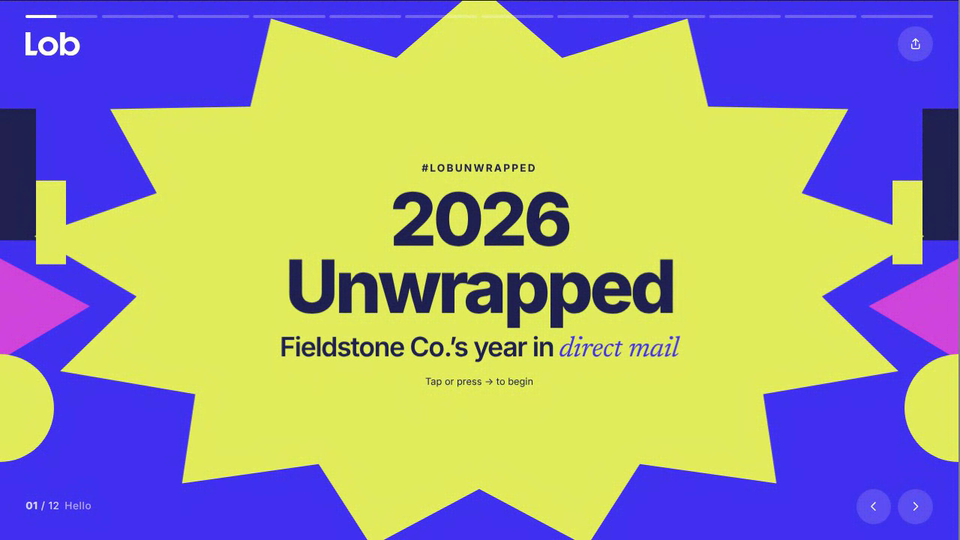
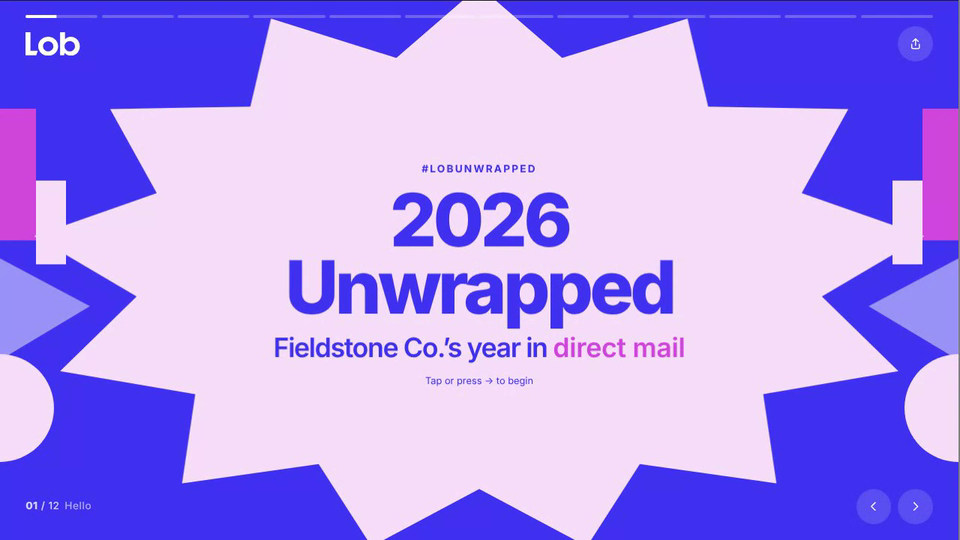
Lob Unwrapped: indigo, magenta, pink and white palette only, sans serif only
Claude-Session: https://claude.ai/code/session_01AHeBdx8DNoKfudp6tSCb8e

diff --git a/lob-unwrapped/index.html b/lob-unwrapped/index.html
@@ -10,12 +10,12 @@
 <meta property="og:image" content="https://kristynagottvald.github.io/sandbox/lob-unwrapped/thumb.png">
 <meta name="twitter:card" content="summary_large_image">
 <link rel="preconnect" href="https://fonts.googleapis.com">
-<link href="https://fonts.googleapis.com/css2?family=Inter:wght@400;500;600;700;800&family=Newsreader:ital,wght@1,400&display=swap" rel="stylesheet">
+<link href="https://fonts.googleapis.com/css2?family=Inter:wght@400;500;600;700;800&display=swap" rel="stylesheet">
 <style>
-:root{--blue:#4131f1;--ink:#1f2250;--lime:#e4ee5c;--mag:#d045dc;--lav:#e7e5fb;--pink:#f4cff5;--sans:"Inter","Helvetica Neue",Helvetica,Arial,sans-serif;--serif:"Newsreader",Georgia,"Times New Roman",serif}
+:root{--blue:#4131f1;--ink:#4131f1;--lime:#f7dffa;--mag:#d045dc;--lav:#f5f5fe;--pink:#f7dffa;--peri:#9b93f8;--sans:"Inter","Helvetica Neue",Helvetica,Arial,sans-serif}
 *{box-sizing:border-box;margin:0}
-html{background:#0b0c22}
-body{min-height:100dvh;display:flex;flex-direction:column;color:#fff;font:400 16px/1.4 var(--sans);-webkit-font-smoothing:antialiased;overflow:hidden;background:#0b0c22}
+html{background:#000}
+body{min-height:100dvh;display:flex;flex-direction:column;color:#fff;font:400 16px/1.4 var(--sans);-webkit-font-smoothing:antialiased;overflow:hidden;background:#000}
 button{font:inherit;color:inherit;cursor:pointer}
 /* ---------- back nav (shared across sandbox projects) ---------- */
 nav.back{flex:none;display:flex;align-items:center;gap:8px;height:49px;padding:0 20px;background:#000;border-bottom:1px solid #1c1c1c;font:400 13px/1.35 var(--sans);white-space:nowrap;overflow:hidden;position:relative;z-index:5}
@@ -60,12 +60,11 @@ nav.back span{color:#6e6e6e}nav.back b{font-weight:500;color:#fff;overflow:hidde
 .slide{--bg:#4131f1;--fg:#fff;--ac:var(--lime);position:absolute;inset:0;z-index:1;background:var(--bg);color:var(--fg);opacity:0;visibility:hidden;transition:opacity .45s,visibility 0s .45s;overflow:hidden;pointer-events:none}
 .slide.on{opacity:1;visibility:visible;transition:opacity .45s;z-index:2}
 .slide a,.slide button{pointer-events:auto}
-.t-blue{--bg:#4131f1;--fg:#fff;--ac:#e4ee5c}
-.t-ink{--bg:#1f2250;--fg:#fff;--ac:#e4ee5c}
-.t-lime{--bg:#e4ee5c;--fg:#1f2250;--ac:#4131f1}
-.t-mag{--bg:#d045dc;--fg:#1f2250;--ac:#e4ee5c}
-.t-lav{--bg:#e7e5fb;--fg:#1f2250;--ac:#4131f1}
-.t-white{--bg:#fff;--fg:#1f2250;--ac:#4131f1}
+.t-blue{--bg:#4131f1;--fg:#fff;--ac:#f7dffa}
+.t-pink{--bg:#f7dffa;--fg:#4131f1;--ac:#d045dc}
+.t-mag{--bg:#d045dc;--fg:#fff;--ac:#f7dffa}
+.t-lav{--bg:#f5f5fe;--fg:#4131f1;--ac:#d045dc}
+.t-white{--bg:#fff;--fg:#4131f1;--ac:#d045dc}
 .bg{position:absolute;inset:0;width:100%;height:100%;display:block}
 .burstsvg{position:absolute;z-index:1;left:50%;top:50%;width:96%;height:104%;transform:translate(-50%,-50%);display:block}
 .in{position:relative;z-index:2;width:100%;height:100%;display:grid;grid-template-columns:minmax(0,1fr) minmax(0,1fr);align-items:center;column-gap:calc(var(--u)*8);padding:calc(var(--u)*20) calc(var(--u)*36) calc(var(--u)*17)}
@@ -96,7 +95,7 @@ nav.back span{color:#6e6e6e}nav.back b{font-weight:500;color:#fff;overflow:hidde
 .h{font:800 calc(var(--u)*13)/1 var(--sans);letter-spacing:-.045em}
 .h.sm{font-size:calc(var(--u)*10.4)}
 .hero{font:800 calc(var(--u)*23)/.92 var(--sans);letter-spacing:-.05em}
-.h i,.lead i,.big i,.hero i{font:italic 400 1.06em var(--serif);letter-spacing:-.01em;color:var(--ac)}
+.h i,.lead i,.big i,.hero i{font-style:normal;letter-spacing:-.01em;color:var(--ac)}
 .lead{font:600 calc(var(--u)*8.4)/1.1 var(--sans);letter-spacing:-.04em}
 .big{font:800 calc(var(--u)*26)/.92 var(--sans);letter-spacing:-.06em;font-variant-numeric:tabular-nums;white-space:nowrap}
 .big.md{font-size:calc(var(--u)*30)}.big.lg{font-size:calc(var(--u)*40)}
@@ -138,7 +137,7 @@ nav.back span{color:#6e6e6e}nav.back b{font-weight:500;color:#fff;overflow:hidde
 .qrwrap{position:relative;width:calc(var(--u)*72)}
 .qrbox{position:relative;width:100%;aspect-ratio:1;background:#fff;border-radius:calc(var(--u)*5);padding:calc(var(--u)*5.5);color:var(--ink);box-shadow:0 calc(var(--u)*2) calc(var(--u)*5) rgba(31,34,80,.25)}
 .qrbox svg{width:100%;height:100%;display:block;fill:currentColor}
-.qrbox::after{content:"";position:absolute;left:calc(var(--u)*3);right:calc(var(--u)*3);height:calc(var(--u)*1.4);border-radius:9px;background:var(--lime);box-shadow:0 0 calc(var(--u)*5) var(--lime);top:8%;opacity:0}
+.qrbox::after{content:"";position:absolute;left:calc(var(--u)*3);right:calc(var(--u)*3);height:calc(var(--u)*1.4);border-radius:9px;background:var(--mag);box-shadow:0 0 calc(var(--u)*5) var(--mag);top:8%;opacity:0}
 .on .qrbox::after{animation:scan 2.2s ease-in-out .7s infinite}
 @keyframes scan{0%{top:6%;opacity:0}12%{opacity:1}88%{opacity:1}100%{top:92%;opacity:0}}
 .phone{position:absolute;right:calc(var(--u)*-18);bottom:calc(var(--u)*-8);width:calc(var(--u)*30);height:auto;filter:drop-shadow(0 calc(var(--u)*1.6) calc(var(--u)*2.4) rgba(31,34,80,.3))}
@@ -157,7 +156,7 @@ nav.back span{color:#6e6e6e}nav.back b{font-weight:500;color:#fff;overflow:hidde
 @keyframes blink{50%{opacity:0}}
 .browser .pg{padding:calc(var(--u)*6) calc(var(--u)*5.4) calc(var(--u)*6.6);display:grid;gap:calc(var(--u)*3)}
 .browser .pg b{font:800 calc(var(--u)*8.4)/1.02 var(--sans);letter-spacing:-.045em}
-.browser .pg b i{font:italic 400 1.06em var(--serif);color:var(--blue)}
+.browser .pg b i{font-style:normal;color:var(--mag)}
 .browser .pg span{font:400 calc(var(--u)*4)/1.4 var(--sans);opacity:.7}
 .browser .cta{position:relative;justify-self:start;padding:calc(var(--u)*2.8) calc(var(--u)*5.4);border-radius:99px;background:var(--blue);color:#fff;font:700 calc(var(--u)*3.8)/1 var(--sans)}
 .browser .cta svg{position:absolute;right:-12%;bottom:-70%;width:calc(var(--u)*8)}
@@ -167,10 +166,10 @@ nav.back span{color:#6e6e6e}nav.back b{font-weight:500;color:#fff;overflow:hidde
 .fun .row div{font:700 calc(var(--u)*6)/1.15 var(--sans);letter-spacing:-.03em}
 .fun .row small{display:block;font:400 calc(var(--u)*3.6)/1.3 var(--sans);opacity:.7;letter-spacing:0;margin-top:3px}
 .tags{display:flex;flex-wrap:wrap;gap:calc(var(--u)*2.2);justify-content:center}
-.tags span{font:700 calc(var(--u)*3.6)/1 var(--sans);padding:calc(var(--u)*2.6) calc(var(--u)*4.4);border-radius:99px;background:var(--fg);color:var(--lav)}
-.tags span:nth-child(2n){background:var(--ac);color:var(--ink)}
+.tags span{font:700 calc(var(--u)*3.6)/1 var(--sans);padding:calc(var(--u)*2.6) calc(var(--u)*4.4);border-radius:99px;background:#4131f1;color:#fff}
+.tags span:nth-child(2n){background:#f7dffa;color:#4131f1}
 .persona{font:800 calc(var(--u)*11.5)/.95 var(--sans);letter-spacing:-.055em}
-.persona i{font:italic 400 1.04em var(--serif);letter-spacing:-.02em;color:var(--blue)}
+.persona i{font-style:normal;letter-spacing:-.02em;color:var(--mag)}
 .pcirc{display:flex;flex-direction:column;align-items:center;gap:calc(var(--u)*3);text-align:center;color:var(--ink);max-width:calc(var(--u)*74)}
 .pcirc .lead{font-size:calc(var(--u)*5.2);font-weight:500;letter-spacing:-.02em;line-height:1.2}
 .pcirc .k{opacity:.8}
@@ -181,7 +180,7 @@ nav.back span{color:#6e6e6e}nav.back b{font-weight:500;color:#fff;overflow:hidde
 .card .top [data-logo]{width:calc(var(--u)*15)}
 .card .top span:last-child{font:700 calc(var(--u)*3)/1 var(--sans);letter-spacing:.14em;text-transform:uppercase;color:var(--lime)}
 .card .nm{font:800 calc(var(--u)*8.4)/1 var(--sans);letter-spacing:-.05em}
-.card .nm i{font:italic 400 1.05em var(--serif);color:var(--lime);letter-spacing:-.01em}
+.card .nm i{font-style:normal;color:var(--lime);letter-spacing:-.01em}
 .card .g{display:grid;grid-template-columns:repeat(3,1fr);gap:calc(var(--u)*4.4) calc(var(--u)*3)}
 .card .g b{display:block;font:800 calc(var(--u)*8.2)/1 var(--sans);letter-spacing:-.05em;font-variant-numeric:tabular-nums}
 .card .g span{display:block;margin-top:calc(var(--u)*1.2);font:400 calc(var(--u)*3)/1.2 var(--sans);opacity:.8}
@@ -189,11 +188,11 @@ nav.back span{color:#6e6e6e}nav.back b{font-weight:500;color:#fff;overflow:hidde
 .btn{display:inline-flex;align-items:center;justify-content:center;gap:calc(var(--u)*2.2);height:calc(var(--u)*13);padding:0 calc(var(--u)*5);border-radius:99px;border:0;background:var(--ink);color:#fff;font:700 calc(var(--u)*3.8)/1 var(--sans);text-decoration:none;white-space:nowrap;cursor:pointer}
 .btn svg{width:calc(var(--u)*4.6);height:calc(var(--u)*4.6);fill:none;stroke:currentColor;stroke-width:2;stroke-linecap:round;stroke-linejoin:round}
 .btn:hover{filter:brightness(1.18)}.btn:focus-visible{outline:2px solid var(--ink);outline-offset:3px}
-.ctr .facts.three .fact{background:#1f2250;color:#e4ee5c}
-.btn.main{background:var(--blue);grid-column:1/-1}
-.btn.talk{background:var(--mag);color:var(--ink);align-self:flex-start;margin-top:calc(var(--u)*2)}
+.ctr .facts.three .fact{background:#4131f1;color:#f7dffa}
+.btn.main{background:var(--mag);grid-column:1/-1}
+.btn.talk{background:#fff;color:var(--ink);align-self:flex-start;margin-top:calc(var(--u)*2)}
 .btn.talk:hover{filter:brightness(1.05)}
-@container (max-aspect-ratio:1/1){.hero{font-size:calc(var(--u)*17)}.persona{font-size:calc(var(--u)*8.4)}.pcirc{max-width:56cqw}.pcirc .lead{font-size:calc(var(--u)*4.4)}.btn{height:calc(var(--u)*11)}.cswrap{margin-bottom:calc(var(--u)*11)}}
+@container (max-aspect-ratio:1/1){.hero{font-size:calc(var(--u)*17)}.persona{font-size:calc(var(--u)*8.4)}.pcirc{max-width:46cqw;gap:calc(var(--u)*2)}.pcirc .k{font-size:calc(var(--u)*2.8);letter-spacing:.1em}.pcirc .lead{font-size:calc(var(--u)*3.9)}.persona{font-size:calc(var(--u)*7.6)}.btn{height:calc(var(--u)*11)}.cswrap{margin-bottom:calc(var(--u)*11)}}
 </style>
 </head>
 <body>
@@ -245,8 +244,8 @@ function C(v,fmt){return '<span data-count="'+v+'" data-fmt="'+fmt+'">'+F[fmt](v
 
 /* ---------- flat shape kit (SVG strings) ---------- */
 var UID=0;
-var B='#4131f1',INK='#1f2250',LI='#e4ee5c',MG='#d045dc',LAV='#e7e5fb',PK='#f4cff5',WH='#fff';
-var PAL={bl:[B,LI,MG,INK],li:[LI,B,INK,MG],mg:[MG,INK,LI,WH],ink:[INK,LI,MG,B],lav:[LAV,B,MG,LI],wh:[WH,B,LI,MG]};
+var B='#4131f1',MG='#d045dc',LAV='#f5f5fe',PK='#f7dffa',PW='#9b93f8',M3='#e28deb',M4='#edb8f3',M5='#f4d3f8',WH='#fff';
+var PAL={bl:[B,PK,MG,PW],pk:[PK,B,MG,PW],mg:[MG,B,PK,LAV],pw:[PW,B,LAV,MG],lav:[LAV,B,MG,PW],wh:[WH,B,MG,PK]};
 function f1(n){return Math.round(n*10)/10}
 function circ(x,y,r,f){return '<circle cx="'+f1(x)+'" cy="'+f1(y)+'" r="'+f1(r)+'" fill="'+f+'"/>'}
 function rect(x,y,w,h,f,rx){return '<rect x="'+f1(x)+'" y="'+f1(y)+'" width="'+f1(w)+'" height="'+f1(h)+'" fill="'+f+'"'+(rx?' rx="'+rx+'"':'')+'/>'}
@@ -278,7 +277,7 @@ function burst(f,n){return '<svg class="burstsvg" viewBox="0 0 160 90" preserveA
 /* ---------- slides ---------- */
 var IL={
  sky:'<svg class="il" viewBox="0 0 320 90"><g class="f" opacity=".28"><rect x="4" y="46" width="30" height="44"/><rect x="40" y="26" width="26" height="64"/><rect x="72" y="52" width="34" height="38"/><rect x="112" y="8" width="28" height="82"/><rect x="146" y="34" width="32" height="56"/><rect x="184" y="56" width="26" height="34"/><rect x="216" y="20" width="30" height="70"/><rect x="252" y="44" width="28" height="46"/><rect x="286" y="30" width="30" height="60"/></g><g class="a"><rect x="116" y="16" width="6" height="8"/><rect x="128" y="16" width="6" height="8"/><rect x="220" y="28" width="6" height="8"/><rect x="232" y="40" width="6" height="8"/><rect x="44" y="34" width="6" height="8"/><rect x="150" y="42" width="6" height="8"/></g></svg>',
- phone:'<svg class="phone" viewBox="0 0 80 150"><rect width="80" height="150" rx="14" fill="#1f2250"/><rect x="6" y="8" width="68" height="134" rx="9" fill="#fff"/><rect x="28" y="12" width="24" height="5" rx="2.5" fill="#1f2250"/><path d="M18 52v-10h10M52 42h10v10M62 98v10H52M28 108H18V98" fill="none" stroke="#4131f1" stroke-width="4" stroke-linecap="round" stroke-linejoin="round"/><rect x="18" y="72" width="44" height="4" rx="2" fill="#d045dc"/></svg>',
+ phone:'<svg class="phone" viewBox="0 0 80 150"><rect width="80" height="150" rx="14" fill="#4131f1"/><rect x="6" y="8" width="68" height="134" rx="9" fill="#fff"/><rect x="28" y="12" width="24" height="5" rx="2.5" fill="#4131f1"/><path d="M18 52v-10h10M52 42h10v10M62 98v10H52M28 108H18V98" fill="none" stroke="#4131f1" stroke-width="4" stroke-linecap="round" stroke-linejoin="round"/><rect x="18" y="72" width="44" height="4" rx="2" fill="#d045dc"/></svg>',
  truck:'<svg class="il" viewBox="0 0 260 120"><g class="f" opacity=".5"><rect x="4" y="34" width="36" height="5" rx="2.5"/><rect x="14" y="52" width="30" height="5" rx="2.5"/><rect x="2" y="70" width="38" height="5" rx="2.5"/></g><rect class="a" x="52" y="22" width="118" height="70" rx="8"/><path class="f" d="M176 44h36l26 26v22h-62z"/><path class="b" d="M188 52h20l14 16h-34z"/><circle class="f" cx="88" cy="96" r="15"/><circle class="b" cx="88" cy="96" r="6"/><circle class="f" cx="206" cy="96" r="15"/><circle class="b" cx="206" cy="96" r="6"/><rect class="b" x="72" y="38" width="42" height="28" rx="4"/></svg>'};
 function qrPath(seed){var s=seed,r=function(){s=(s*16807)%2147483647;return s/2147483647},p='',n=21,fin=function(x,y){p+='M'+x+' '+y+'h7v7h-7z M'+(x+1)+' '+(y+1)+'h5v5h-5z M'+(x+2)+' '+(y+2)+'h3v3h-3z '};
   fin(0,0);fin(14,0);fin(0,14);
@@ -289,61 +288,61 @@ function qrSvg(seed){return '<svg viewBox="0 0 21 21" shape-rendering="crispEdge
 var SL=[];
 function R(i,html,tag,cls){return '<'+(tag||'div')+' class="rise'+(cls?' '+cls:'')+'" style="--i:'+i+'">'+html+'</'+(tag||'div')+'>'}
 /* 0 hello: a lime burst on blue */
-SL.push({t:'blue',n:'Hello',d:6500,bg:edge([LI,INK,MG,LI]),pre:burst(LI),h:
-  '<div class="in ctr"><div class="tx" style="color:#1f2250">'+R(0,'#LobUnwrapped','div','k')+R(1,'2026<br>Unwrapped','h1','hero')+R(2,esc(D.brand)+'’s year in <i style="color:#4131f1">direct mail</i>','p','lead')+R(3,'Tap or press → to begin','p','fine')+'</div></div>'});
+SL.push({t:'blue',n:'Hello',d:6500,bg:edge([PK,MG,PW,PK]),pre:burst(PK),h:
+  '<div class="in ctr"><div class="tx" style="color:#4131f1">'+R(0,'#LobUnwrapped','div','k')+R(1,'2026<br>Unwrapped','h1','hero')+R(2,esc(D.brand)+'’s year in <i style="color:#d045dc">direct mail</i>','p','lead')+R(3,'Tap or press → to begin','p','fine')+'</div></div>'});
 /* 1 pieces sent: the Figma cascade */
-SL.push({t:'lime',n:'Pieces sent',d:6500,bg:edge([B,INK,MG,B]),h:
+SL.push({t:'pink',n:'Pieces sent',d:6500,bg:edge([B,MG,PW,B]),h:
   '<div class="in wide"><div class="tx">'+R(0,'You sent','div','k')+R(1,C(D.pieces,'int'),'div','big')+R(2,'pieces of <i>mail</i>','div','lead')+
   R(3,'That’s <b>'+int(D.perDay)+'</b> out the door every day, enough for about 1 in every <b>'+D.hh+'</b> US households.','p','sub')+'</div>'+
   '<div class="art">'+R(2,cascade('mandala','bl',false),'div','')+'</div></div>'});
 /* 2 mix: one abstract piece per format */
-SL.push({t:'ink',n:'Your mix',d:6500,bg:edge([LI,B,MG,LI]),h:
+SL.push({t:'blue',n:'Your mix',d:6500,bg:edge([MG,PK,PW,MG]),h:
   '<div class="in col">'+R(0,'Your mix','div','k')+R(1,'Postcards were your <i>main character</i>','h2','h sm')+
-  '<div class="mixrow">'+D.mix.map(function(m,i){return R(i+2,piece(m[2],['bl','mg','wh','lav'][i],i%2===1)+'<b>'+C(m[1],'pct')+'</b><span>'+m[0]+'</span><small>'+compact(D.pieces*m[1]/100)+' pieces</small>','div','mix')}).join('')+'</div></div>'});
+  '<div class="mixrow">'+D.mix.map(function(m,i){return R(i+2,piece(m[2],['pk','mg','wh','lav'][i],i%2===1)+'<b>'+C(m[1],'pct')+'</b><span>'+m[0]+'</span><small>'+compact(D.pieces*m[1]/100)+' pieces</small>','div','mix')}).join('')+'</div></div>'});
 /* 3 moon */
-SL.push({t:'ink',n:'To the moon',d:7500,moon:1,bg:edge([MG,B,LI,MG]),h:
+SL.push({t:'mag',n:'To the moon',d:7500,moon:1,bg:edge([B,PK,PW,B]),h:
   '<div class="in"><div class="tx">'+R(0,'Piece-miles','div','k')+R(1,'Your mail traveled <span style="color:var(--ac)">'+C(D.pieceMiles,'bil')+' billion</span> miles','h2','h sm')+
   R(2,'That’s <b>'+C(D.trips,'int')+'</b> trips to the <i>moon</i>.','p','lead')+R(3,'Piece-miles = pieces × average delivery distance ('+int(D.avgMi)+' mi). Moon: 238,855 mi one way.','p','fine')+'</div>'+
   '<div class="art">'+R(2,'<svg class="scene" viewBox="0 0 440 340">'+
     '<g fill="#fff" opacity=".55"><circle cx="30" cy="40" r="3"/><circle cx="160" cy="18" r="2.4"/><circle cx="280" cy="90" r="2.6"/><circle cx="400" cy="30" r="2.4"/><circle cx="420" cy="170" r="3"/><circle cx="140" cy="140" r="2.2"/><circle cx="330" cy="210" r="2"/></g>'+
-    circ(98,250,92,B)+'<path d="M26 232c28-24 56-28 80-12s52 8 68-12M14 276c36 12 68 4 92 22" fill="none" stroke="'+LI+'" stroke-width="12" stroke-linecap="round"/>'+
+    circ(98,250,92,B)+'<path d="M26 232c28-24 56-28 80-12s52 8 68-12M14 276c36 12 68 4 92 22" fill="none" stroke="'+PK+'" stroke-width="12" stroke-linecap="round"/>'+
     circ(362,86,56,LAV)+circ(344,70,12,PK)+circ(380,104,15,PK)+circ(364,58,6,PK)+circ(342,108,7,PK)+
     '<path id="mp" d="M168 196C230 70 320 34 328 62" fill="none" stroke="#fff" stroke-opacity=".55" stroke-width="3" stroke-dasharray="2 12" stroke-linecap="round"/>'+
-    '<g id="mc"><g transform="translate(-24 -15.4) scale(.16)">'+piece('burst','li',false).replace(/^<svg[^>]*>|<\/svg>$/g,'')+'</g></g></svg>','div','')+'</div></div>'});
+    '<g id="mc"><g transform="translate(-24 -15.4) scale(.16)">'+piece('burst','pk',false).replace(/^<svg[^>]*>|<\/svg>$/g,'')+'</g></g></svg>','div','')+'</div></div>'});
 /* 4 coverage */
-SL.push({t:'blue',n:'% of the US',d:7000,map:1,bg:edge([LI,INK,MG,MG]),h:
+SL.push({t:'blue',n:'% of the US',d:7000,map:1,bg:edge([PK,MG,PW,M3]),h:
   '<div class="in"><div class="tx">'+R(0,'You reached','div','k')+R(1,C(D.pct,'pct'),'div','big lg')+R(2,'of US <i>households</i>','div','lead')+R(3,'<span class="pill" style="background:var(--lime);color:var(--ink)">'+D.states+' states, one mailbox at a time</span>')+'</div>'+
   '<div class="art">'+R(1,'<div class="map"><canvas id="cv"></canvas></div>','div','')+'</div></div>'});
 /* 5 metros */
-SL.push({t:'lav',n:'Metros',d:6500,bg:edge([B,MG,INK,B]),h:
+SL.push({t:'lav',n:'Metros',d:6500,bg:edge([B,MG,PW,B]),h:
   '<div class="in"><div class="tx">'+R(0,'Metros delivered to','div','k')+R(1,C(D.metros,'int')+' <small>of 387</small>','div','big lg')+R(2,'Your top five <i>metros</i>','div','lead')+R(5,IL.sky,'div','')+'</div>'+
   '<div class="art"><div class="rank">'+D.metroTop.map(function(m,i){return R(i+2,'<div class="n">'+(i+1)+'</div><div><div class="nm">'+m[0]+'<span>'+C(m[1],'int')+'</span></div><div class="t"><i style="--w:'+(100-i*13)+'%;--i:'+i+'"></i></div></div>','div','row')}).join('')+'</div></div></div>'});
 /* 6 QR */
-SL.push({t:'mag',n:'QR scans',d:6500,bg:edge([LI,INK,B,LI]),h:
+SL.push({t:'pink',n:'QR scans',d:6500,bg:edge([MG,B,PW,MG]),h:
   '<div class="in"><div class="tx">'+R(0,'QR codes scanned','div','k')+R(1,C(D.scans,'int'),'div','big md')+R(2,'<i>scans</i>, one tap at a time','div','lead')+
   R(3,'<div class="facts"><div class="fact"><b>'+C(D.qrRate,'p1')+'</b><span>of your pieces got scanned</span></div><div class="fact"><b>Tue 7 PM</b><span>when your audience scans most</span></div></div>','div')+'</div>'+
   '<div class="art">'+R(2,'<div class="qrwrap"><div class="qrbox">'+qrSvg(11)+'</div>'+IL.phone+'</div>','div','')+'</div></div>'});
 /* 7 PURL */
-SL.push({t:'white',n:'PURL clicks',d:7000,purl:1,bg:edge([B,MG,LI,INK]),h:
+SL.push({t:'white',n:'PURL clicks',d:7000,purl:1,bg:edge([B,MG,PK,PW]),h:
   '<div class="in"><div class="tx">'+R(0,'PURLs clicked','div','k')+R(1,C(D.clicks,'int'),'div','big md')+R(2,'<b>'+C(D.uniq,'int')+'</b> people landed on a page with <i>their own name</i> on it.','p','lead')+'</div>'+
-  '<div class="art">'+R(2,'<div class="browser"><div class="bar2"><i></i><i></i><i></i><div class="url">'+esc(D.brand.toLowerCase().replace(/[^a-z0-9]+/g,'').slice(0,18)||'yourbrand')+'.co/<u id="pn">jordan</u><s></s></div></div><div class="pg"><b>Welcome back, <i id="pn2">Jordan</i>.</b><span>A page built for you, because the postcard in your hand said so.</span><div class="cta">Claim my offer<svg viewBox="0 0 24 28"><path d="M3 2v20l5.5-4.8 3.6 8 3.4-1.6-3.6-7.8 7.4-.6z" fill="#1f2250" stroke="#fff" stroke-width="2" stroke-linejoin="round"/></svg></div></div></div>','div','')+'</div></div>'});
+  '<div class="art">'+R(2,'<div class="browser"><div class="bar2"><i></i><i></i><i></i><div class="url">'+esc(D.brand.toLowerCase().replace(/[^a-z0-9]+/g,'').slice(0,18)||'yourbrand')+'.co/<u id="pn">jordan</u><s></s></div></div><div class="pg"><b>Welcome back, <i id="pn2">Jordan</i>.</b><span>A page built for you, because the postcard in your hand said so.</span><div class="cta">Claim my offer<svg viewBox="0 0 24 28"><path d="M3 2v20l5.5-4.8 3.6 8 3.4-1.6-3.6-7.8 7.4-.6z" fill="#4131f1" stroke="#fff" stroke-width="2" stroke-linejoin="round"/></svg></div></div></div>','div','')+'</div></div>'});
 /* 8 results: big number in a burst, like the 22 */
-SL.push({t:'ink',n:'Results',d:6500,bg:edge([MG,B,MG,B]),pre:burst(LI,15),h:
-  '<div class="in ctr"><div class="tx" style="color:#1f2250;gap:calc(var(--u)*2.6)">'+R(0,'What it added up to','div','k')+R(1,C(D.rev,'usd'),'div','big lg')+R(2,'in revenue from <i style="color:#4131f1">mail</i>','div','lead')+
+SL.push({t:'blue',n:'Results',d:6500,bg:edge([MG,PK,PW,MG]),pre:burst(MG,15),h:
+  '<div class="in ctr"><div class="tx" style="color:#fff;gap:calc(var(--u)*2.6)">'+R(0,'What it added up to','div','k')+R(1,C(D.rev,'usd'),'div','big lg')+R(2,'in revenue from <i style="color:#f7dffa">mail</i>','div','lead')+
   R(3,'<div class="facts three"><div class="fact"><b>'+C(D.engaged,'compact')+'</b><span>people engaged</span></div><div class="fact"><b>'+C(D.conv,'int')+'</b><span>converted</span></div><div class="fact"><b>'+F.p1(D.conv/D.engaged*100)+'</b><span>of engaged converted</span></div></div>','div')+'</div></div>'});
 /* 9 delivery */
-SL.push({t:'lav',n:'Speed & quality',d:6500,bg:edge([MG,B,LI,MG]),h:
+SL.push({t:'lav',n:'Speed & quality',d:6500,bg:edge([MG,B,PW,MG]),h:
   '<div class="in"><div class="tx">'+R(0,'Delivery','div','k')+R(1,C(D.days,'d1')+' <small>days</small>','div','big lg')+R(2,'average time to <i>mailbox</i>','div','lead')+R(3,IL.truck,'div','')+'</div>'+
   '<div class="art"><div class="fun">'+
   R(3,'<i>'+F.pct(D.ontime)+'</i><div>delivered on time<small>'+F.p1(D.ontime)+' of pieces hit their window</small></div>','div','row')+
   R(4,'<i>✓</i><div>'+C(D.bad,'int')+' bad addresses caught<small>fixed or stopped before print</small></div>','div','row')+
   R(5,'<i>$</i><div>'+usd(D.saved)+' postage saved<small>on mail that would never have landed</small></div>','div','row')+'</div></div></div>'});
 /* 10 persona: a mandala */
-SL.push({t:'mag',n:'Your persona',d:6500,bg:'<svg class="bg c" viewBox="0 0 160 90" preserveAspectRatio="xMidYMid slice" aria-hidden="true">'+star(80,45,70,63,16,INK,.64)+mand(80,45,41,16,LI,PK,WH)+circ(80,45,23,LAV)+'</svg>',h:
+SL.push({t:'mag',n:'Your persona',d:6500,bg:'<svg class="bg c" viewBox="0 0 160 90" preserveAspectRatio="xMidYMid slice" aria-hidden="true">'+star(80,45,70,63,16,B,.64)+mand(80,45,41,16,M3,PK,MG)+circ(80,45,23,LAV)+'</svg>',h:
   '<div class="in ctr"><div class="pcirc">'+R(0,'Your mail personality','div','k')+R(1,persona[0]+'<br><i>'+persona[1]+'</i>','div','persona')+R(2,persona[2],'p','lead')+'</div></div>'+
   '<div class="ptw" style="position:absolute;z-index:3;left:0;right:0;bottom:calc(var(--u)*15)">'+R(3,persona[3].map(function(t){return '<span>'+t+'</span>'}).join(''),'div','tags')+'</div>'});
 /* 11 share */
-SL.push({t:'lime',n:'Share it',d:0,end:1,bg:edge([B,INK,MG,B]),h:
+SL.push({t:'pink',n:'Share it',d:0,end:1,bg:edge([B,MG,PW,B]),h:
   '<div class="in"><div class="art">'+R(0,'<div class="cswrap"><i style="--k:5;--o:.08"></i><i style="--k:4;--o:.19"></i><i style="--k:3;--o:.38"></i><i style="--k:2;--o:.6"></i><i style="--k:1;--o:1"></i><div class="card"><div class="top"><span data-logo></span><span>Unwrapped 2026</span></div><div class="nm">'+esc(D.brand)+', <i>in mail</i></div><div class="g">'+
     [[compact(D.pieces),'pieces sent'],[F.pct(D.pct),'of US households'],[int(D.metros),'metros delivered to'],[compact(D.scans),'QR codes scanned'],[compact(D.clicks),'PURLs clicked'],[int(D.trips),'trips to the moon']].map(function(s){return '<div><b>'+s[0]+'</b><span>'+s[1]+'</span></div>'}).join('')+'</div></div></div>','div','')+'</div>'+
   '<div class="tx">'+R(1,'Your next chapter starts <i>here.</i>','h2','h')+
@@ -415,9 +414,9 @@ function drawMap(cv,tk){var ds=dots(),ctx=cv.getContext('2d'),t0=performance.now
   var W=0,Hh=0;
   (function s(now){if(tk!==token)return;var sz=size();W=sz[0];Hh=sz[1];var mw=59.5*K,mh=25.4,sc=Math.min(W/mw,Hh/mh)*.98,ox=(W-mw*sc)/2,oy=(Hh-mh*sc)/2,p=RM?1:ease(Math.max(0,Math.min(1,(now-t0)/1900))),lit=D.pct/100*p,r=sc*.19;
     ctx.clearRect(0,0,W,Hh);
-    for(var i=0;i<ds.length;i++){var d=ds[i],on=d.r<lit;ctx.fillStyle=on?'#e4ee5c':'rgba(255,255,255,.2)';ctx.beginPath();ctx.arc(ox+d.x*sc,oy+d.y*sc,on?r*1.08:r*.85,0,6.2832);ctx.fill()}
+    for(var i=0;i<ds.length;i++){var d=ds[i],on=d.r<lit;ctx.fillStyle=on?'#f7dffa':'rgba(255,255,255,.2)';ctx.beginPath();ctx.arc(ox+d.x*sc,oy+d.y*sc,on?r*1.08:r*.85,0,6.2832);ctx.fill()}
     var ph=(now/1300)%1;ctx.lineWidth=Math.max(1,sc*.05);
-    MET.slice(0,14).forEach(function(m,i){if(p<.5)return;var x=ox+(m[1]+125)*K*sc,y=oy+(49.6-m[0])*sc,q=(ph+i*.13)%1;ctx.strokeStyle='rgba(228,238,92,'+(.8*(1-q))+')';ctx.beginPath();ctx.arc(x,y,r*(1.5+q*5),0,6.2832);ctx.stroke()});
+    MET.slice(0,14).forEach(function(m,i){if(p<.5)return;var x=ox+(m[1]+125)*K*sc,y=oy+(49.6-m[0])*sc,q=(ph+i*.13)%1;ctx.strokeStyle='rgba(247,223,250,'+(.8*(1-q))+')';ctx.beginPath();ctx.arc(x,y,r*(1.5+q*5),0,6.2832);ctx.stroke()});
     if(!RM||p<1)requestAnimationFrame(s)})(performance.now())}
 
 
@@ -430,14 +429,14 @@ function copyText(t){if(navigator.clipboard&&window.isSecureContext)return navig
 function copy(slide){copyText(link(slide===true)).then(function(){toast('Link copied')},function(){toast('Press Ctrl+C to copy: '+link())})}
 function share(slide){var data={title:'Lob Unwrapped 2026',text:TXT,url:link(slide)};
   if(navigator.share){navigator.share(data).catch(function(e){if(e&&e.name!=='AbortError')copy(slide)})}else{copy(slide)}}
-function cardCanvas(){return document.fonts.load('600 40px Inter').then(function(){return document.fonts.load('italic 400 40px Newsreader')}).catch(function(){}).then(function(){
+function cardCanvas(){return document.fonts.load('600 40px Inter').then(function(){return document.fonts.load('800 40px Inter')}).catch(function(){}).then(function(){
   var W=1080,Hh=1920,c=document.createElement('canvas');c.width=W;c.height=Hh;var x=c.getContext('2d');
   var g=x.createLinearGradient(0,0,W,Hh);g.addColorStop(0,'#4131f1');g.addColorStop(1,'#2c22c8');x.fillStyle=g;x.fillRect(0,0,W,Hh);
-  x.fillStyle='#e4ee5c';x.beginPath();x.arc(W,0,420,0,6.3);x.fill();x.fillStyle='#d045dc';x.beginPath();x.arc(0,Hh,360,0,6.3);x.fill();
+  x.fillStyle='#f7dffa';x.beginPath();x.arc(W,0,420,0,6.3);x.fill();x.fillStyle='#d045dc';x.beginPath();x.arc(0,Hh,360,0,6.3);x.fill();
   var tmp=document.createElement('div');tmp.innerHTML=LOGO;x.save();x.translate(80,92);x.scale(1.5,1.5);x.fillStyle='#fff';tmp.querySelectorAll('path').forEach(function(p){x.fill(new Path2D(p.getAttribute('d')))});x.restore();
   x.fillStyle='#fff';x.font='600 30px Inter, sans-serif';x.textAlign='left';x.fillText('UNWRAPPED 2026',W-80-x.measureText('UNWRAPPED 2026').width,140);
   x.fillStyle='#fff';x.font='600 112px Inter, sans-serif';var words=(D.brand+', your year in').split(' '),line='',y=420,lines=[];words.forEach(function(w){var t=line?line+' '+w:w;if(x.measureText(t).width>W-160&&line){lines.push(line);line=w}else line=t});lines.push(line);
-  lines.forEach(function(l){x.fillText(l,80,y);y+=118});x.fillStyle='#e4ee5c';x.font='italic 400 130px Newsreader, Georgia, serif';x.fillText('direct mail',80,y+10);y+=140;
+  lines.forEach(function(l){x.fillText(l,80,y);y+=118});x.fillStyle='#f7dffa';x.font='800 130px Inter, sans-serif';x.fillText('direct mail',80,y+10);y+=140;
   var st=[[compact(D.pieces),'pieces sent'],[F.pct(D.pct),'of US households'],[int(D.metros),'metros delivered to'],[compact(D.scans),'QR codes scanned'],[compact(D.clicks),'PURLs clicked'],[int(D.trips),'trips to the moon']];
   st.forEach(function(s,i){var cx=80+(i%2)*470,cy=y+110+Math.floor(i/2)*230;x.fillStyle='#fff';x.font='600 120px Inter, sans-serif';x.fillText(s[0],cx,cy);x.font='400 36px Inter, sans-serif';x.globalAlpha=.8;x.fillText(s[1],cx,cy+54);x.globalAlpha=1});
   x.fillStyle='#fff';x.font='600 40px Inter, sans-serif';x.fillText('Your next chapter starts here. lob.com',80,Hh-100);return c})}
